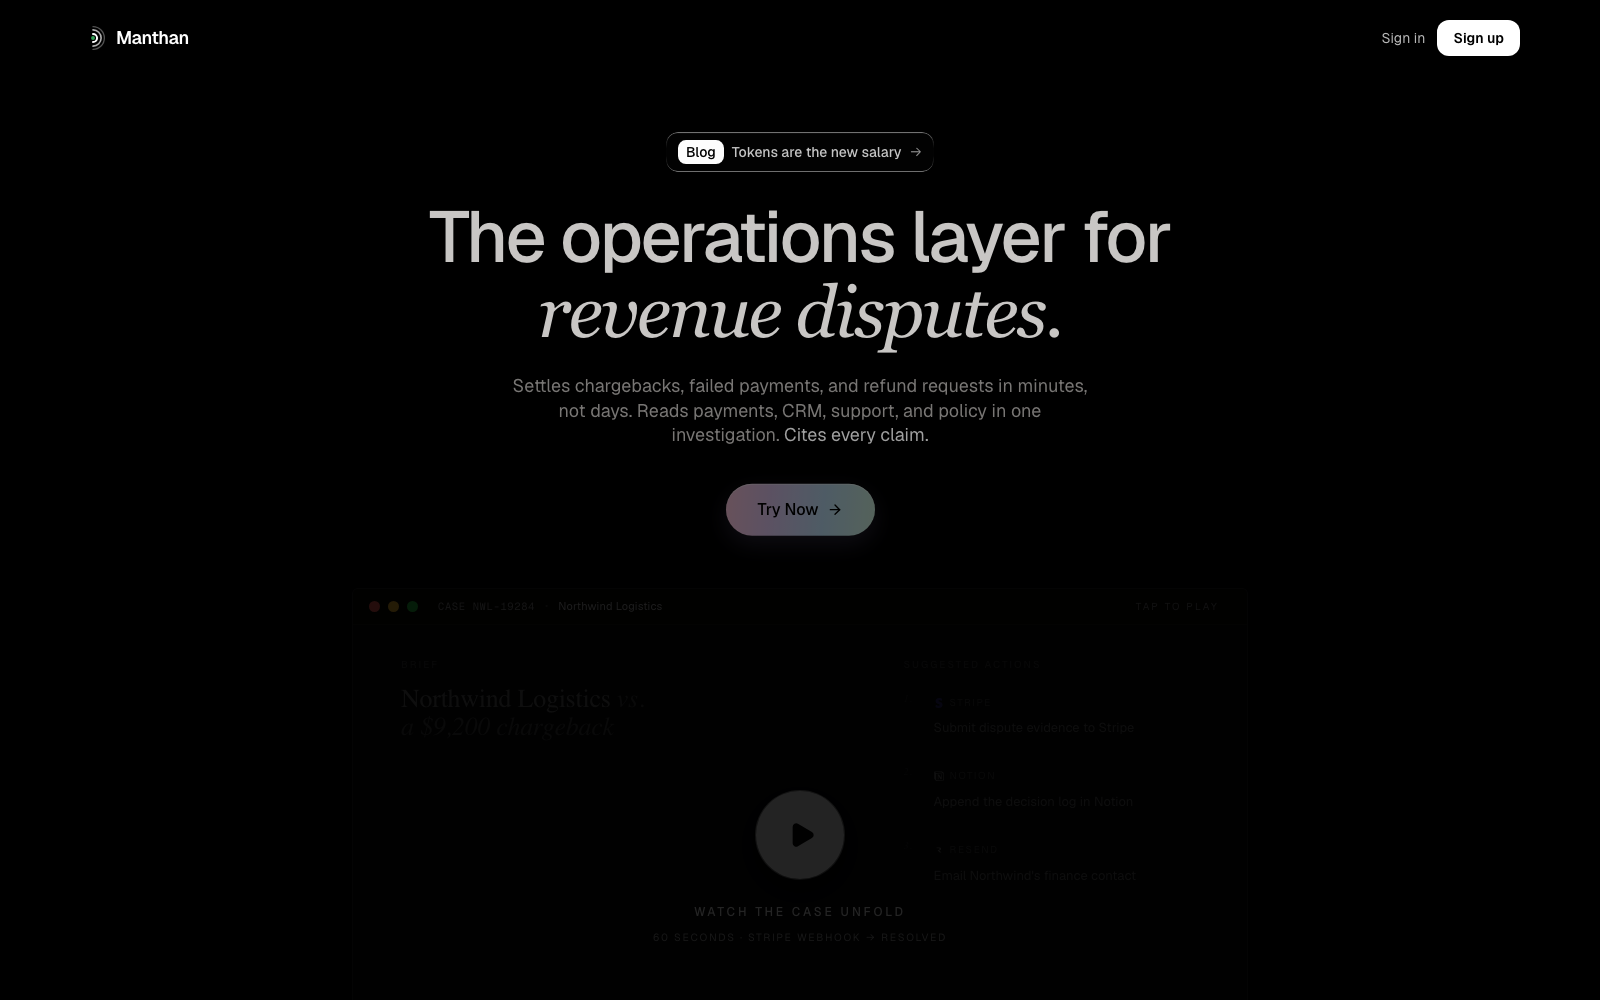
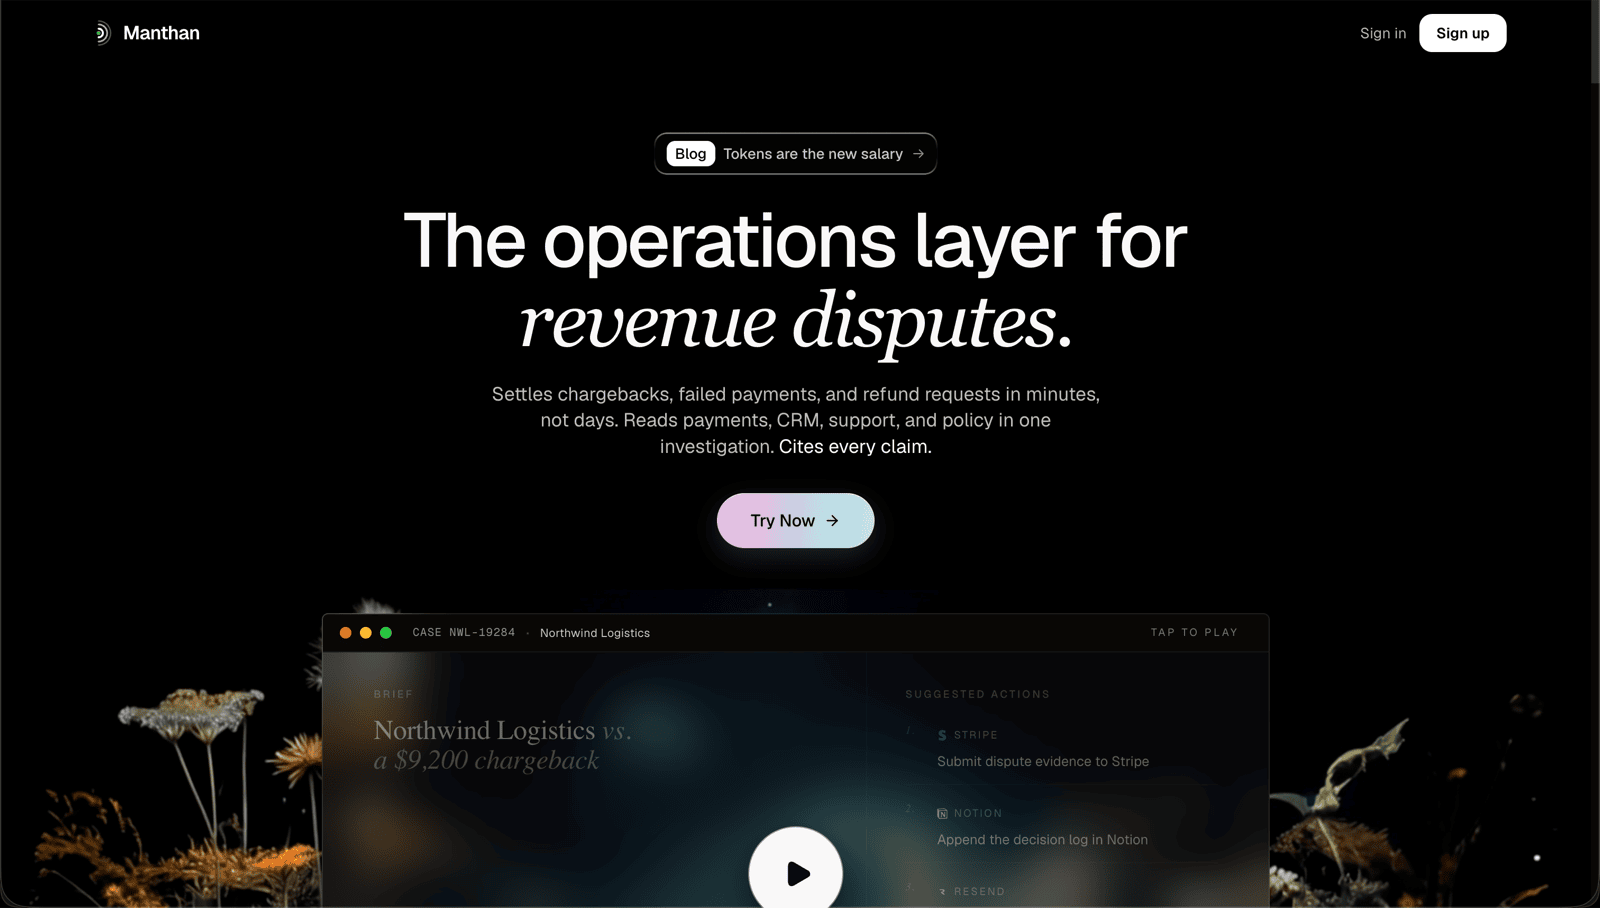
Strip em dashes from visible copy; swap pixie + hestia card images for project shots

diff --git a/src/lib/portfolio-data.js b/src/lib/portfolio-data.js
@@ -16,7 +16,7 @@ export const PROFILE = {
   profileImage: "/profile.png",
   minyLabsLogo: "https://customer-assets.emergentagent.com/job_adc8eb87-cfa1-4051-8080-24959918290a/artifacts/ubep0xhy_logo_for_an_ai_and_crypto_lab_called_miny_labs_bra_019e03ff-96cc-75cd-8d4f-1681d476312b.svg",
   description:
-    "Building AI agents for the messy parts of business — real-time voice that reasons, agentic ops that close cases, and systems that ship end-to-end. Most things break in production; mine pay rent.",
+    "Building AI agents for the messy parts of business. Real-time voice that reasons, agentic ops that close cases, and systems that ship end-to-end. Most things break in production; mine pay rent.",
   roles: ["Founder", "Engineer", "Builder", "Hacker"],
   loadingWords: ["Build", "Ship", "Reason"],
   eyebrow: "PORTFOLIO 2026",
@@ -52,7 +52,7 @@ export const PROJECTS = [
     subtitle: "Encrypted arena for autonomous trading agents",
     description:
       "Autonomous agents trade against each other with strategy kept private until settlement lands on-chain. ERC-8004 trust registry for agent identity, x402 micropayments for tool calls, SKALE encrypted compute for the execution layer. Won the Encrypted Agent track at the SKALE x402 Agentic Commerce hackathon.",
-    image: "https://images.unsplash.com/photo-1664854953181-b12e6dda8b7c?auto=format&fit=crop&w=1600&q=80",
+    image: "/pixie.png",
     href: "https://github.com/akash-mondal/pixie",
     tags: ["AI Agents", "SKALE", "ERC-8004", "x402"],
     year: "2026",
@@ -64,10 +64,10 @@ export const PROJECTS = [
     subtitle: "Wildfire resilience credits insurers actually accept",
     description:
       "Tokenises prescribed burns and forest treatment into a credit that insurers price into premium discounts. Verifiable Credentials on Hedera, six-component risk score computed on-chain, satellite verification per acre. Took 3rd in the Sustainability track at Hedera Hello Future: Apex.",
-    image: "https://images.unsplash.com/photo-1584291527908-033f4d6542c8?auto=format&fit=crop&w=1600&q=80",
+    image: "/hestia.png",
     href: "https://www.hestia.bond",
     tags: ["Hedera", "Guardian", "Climate", "RWA"],
-    year: "2025 — 26",
+    year: "2025 / 26",
     span: "md:col-span-5",
   },
   {
@@ -98,12 +98,12 @@ export const PROJECTS = [
 
 export const EXPERIENCE = [
   {
-    period: "2026 — Now",
+    period: "2026 to Now",
     role: "Co-Founder & CTO",
     company: "Miny Labs",
     place: "Bengaluru / Remote",
     summary:
-      "Nine hackathon wins, $26K+ in prizes, six production protocols in twelve months. Run engineering and ship most of it solo — Manthan (revenue-dispute ops), Pixie (encrypted agent arena), Hestia (3rd at Hedera Apex), and the rest of the lab's catalogue.",
+      "Nine hackathon wins, $26K+ in prizes, six production protocols in twelve months. Run engineering and ship most of it solo: Manthan (revenue-dispute ops), Pixie (encrypted agent arena), Hestia (3rd at Hedera Apex), and the rest of the lab's catalogue.",
     accent: true,
   },
   {
@@ -112,15 +112,15 @@ export const EXPERIENCE = [
     company: "Freelance / Contract",
     place: "Remote",
     summary:
-      "Shipped agent products end-to-end for paying clients while ramping the indie path. Deshi — tribal-knowledge replicas as conversational AI personas — took 4th at the Sensay EdTech Breakthrough.",
+      "Shipped agent products end-to-end for paying clients while ramping the indie path. Deshi, tribal-knowledge replicas as conversational AI personas, took 4th at the Sensay EdTech Breakthrough.",
   },
   {
-    period: "2024 — 2025",
+    period: "2024 to 2025",
     role: "Generative AI Intern",
     company: "Samsung R&D Institute",
     place: "Bangalore",
     summary:
-      "Designed an MCP-based orchestration framework for multi-modal home agents. Became HARMONY — first author, IEEE Access (2026). Also picked up the Samsung PRISM GenAI win on the way.",
+      "Designed an MCP-based orchestration framework for multi-modal home agents. Became HARMONY; first author, IEEE Access (2026). Also picked up the Samsung PRISM GenAI win on the way.",
   },
   {
     period: "2024",
@@ -128,7 +128,7 @@ export const EXPERIENCE = [
     company: "Yash Technologies",
     place: "Indore",
     summary:
-      "Built and shipped a virtual try-on pipeline on AWS GPU clusters — SegFormer + IDM-VTON + ControlNet, served behind a real-time API. Won Yash Technothrive 2023.",
+      "Built and shipped a virtual try-on pipeline on AWS GPU clusters: SegFormer + IDM-VTON + ControlNet, served behind a real-time API. Won Yash Technothrive 2023.",
   },
 ];
 
@@ -164,13 +164,13 @@ export const JOURNAL = [
 ];
 
 export const ACHIEVEMENTS = [
-  { name: "Hedera Hello Future: Apex", year: "2026", prize: "$8,000", placement: "3rd · Sustainability", note: "Hestia — wildfire resilience credits on Hedera" },
+  { name: "Hedera Hello Future: Apex", year: "2026", prize: "$8,000", placement: "3rd · Sustainability", note: "Hestia · wildfire resilience credits on Hedera" },
   { name: "D3 DomainFi Hack", year: "2026", prize: "$10,000", placement: "Winner", note: "On-chain domain intelligence & trading" },
   { name: "Agent.ai Challenge", year: "2026", prize: "$6,000", placement: "Best HubSpot Agent", note: "Autonomous agent for HubSpot workflows" },
   { name: "SKALE x402 Agentic Commerce", year: "2026", prize: "$1,000", placement: "Runner-Up", note: "Encrypted Agent track" },
-  { name: "Sensay EdTech Breakthrough", year: "2025", prize: "$1,000", placement: "4th Place", note: "Deshi — tribal knowledge to AI replicas" },
-  { name: "Samsung PRISM GenAI", year: "2024", prize: "—", placement: "Winner", note: "Multi-modal smart home GenAI" },
-  { name: "Yash Technothrive23", year: "2024", prize: "—", placement: "Winner", note: "National-level GenAI hackathon" },
+  { name: "Sensay EdTech Breakthrough", year: "2025", prize: "$1,000", placement: "4th Place", note: "Deshi · tribal knowledge to AI replicas" },
+  { name: "Samsung PRISM GenAI", year: "2024", prize: "·", placement: "Winner", note: "Multi-modal smart home GenAI" },
+  { name: "Yash Technothrive23", year: "2024", prize: "·", placement: "Winner", note: "National-level GenAI hackathon" },
 ];
 
 export const EXPLORATIONS = [
@@ -183,7 +183,7 @@ export const EXPLORATIONS = [
 ];
 
 export const STATS = [
-  { value: "20+", label: "Agent systems shipped", note: "Hackathons, clients, indie — most still running" },
+  { value: "20+", label: "Agent systems shipped", note: "Hackathons, clients, indie. Most still running." },
   { value: "$26K+", label: "Hackathon winnings", note: "Nine wins in the last twelve months" },
   { value: "1", label: "IEEE Access publication", note: "HARMONY · multi-modal agents over MCP" },
 ];

diff --git a/src/components/portfolio/SelectedWorks.jsx b/src/components/portfolio/SelectedWorks.jsx
@@ -32,7 +32,7 @@ export const SelectedWorks = () => {
               Featured <span className="italic">work</span>
             </h2>
             <p className="text-sm md:text-base text-muted leading-relaxed">
-              Production agents and protocols — money, identity, climate, ops.
+              Production agents and protocols. Money, identity, climate, ops.
               The ones currently shipping.
             </p>
           </div>
@@ -123,7 +123,7 @@ export const SelectedWorks = () => {
                   <span className="inline-flex items-center gap-2 relative rounded-full px-5 py-2 bg-text-primary text-bg text-sm font-medium">
                     <span className="absolute -inset-[2px] rounded-full gradient-border-animated" />
                     <span className="relative inline-flex items-center gap-2">
-                      View — <span className="font-display italic">{p.title}</span>
+                      View <span className="font-display italic">{p.title}</span>
                       <ArrowUpRight className="w-3.5 h-3.5" />
                     </span>
                   </span>

diff --git a/src/components/portfolio/About.jsx b/src/components/portfolio/About.jsx
@@ -88,7 +88,7 @@ export const About = () => {
                 >
                   Miny Labs
                 </a>
-                — a research-driven lab shipping primitives where cryptography meets autonomy. We architect on-chain agent systems with real cryptographic guarantees: x402 micropayments, ERC-8004 trust registries, BITE v2 encrypted execution, ZK identity on Midnight.
+                , a research-driven lab shipping primitives where cryptography meets autonomy. We architect on-chain agent systems with real cryptographic guarantees: x402 micropayments, ERC-8004 trust registries, BITE v2 encrypted execution, ZK identity on Midnight.
               </p>
             </div>
 

diff --git a/src/components/portfolio/Footer.jsx b/src/components/portfolio/Footer.jsx
@@ -144,7 +144,7 @@ export const Footer = () => {
       <div className="border-t border-stroke">
         <div className="max-w-[1200px] mx-auto px-6 md:px-10 lg:px-16 py-6 flex flex-col md:flex-row md:items-center justify-between gap-3 text-xs text-muted">
           <span className="font-mono">
-            © {new Date().getFullYear()} {PROFILE.name} — Built in Bengaluru.
+            © {new Date().getFullYear()} {PROFILE.name} · Built in Bengaluru.
           </span>
           <span className="font-mono uppercase tracking-[0.25em]">
             v 2026.01 · Always shipping

diff --git a/src/components/portfolio/Stats.jsx b/src/components/portfolio/Stats.jsx
@@ -51,7 +51,7 @@ export const Stats = () => {
               </div>
               <div className="relative">
                 <span className="text-[10px] uppercase tracking-[0.3em] text-muted">
-                  {String(i + 1).padStart(2, "0")} —
+                  {String(i + 1).padStart(2, "0")} ·
                 </span>
                 <p className="mt-4 text-6xl md:text-7xl font-display italic text-text-primary leading-none">
                   {s.value}

diff --git a/src/components/portfolio/Experience.jsx b/src/components/portfolio/Experience.jsx
@@ -55,7 +55,7 @@ export const Experience = () => {
                   <span className="font-display italic text-text-primary/90">
                     {e.company}
                   </span>{" "}
-                  — {e.place}
+                  · {e.place}
                 </p>
               </div>
               <p className="md:col-span-6 text-sm md:text-base text-text-primary/80 leading-relaxed text-pretty">
